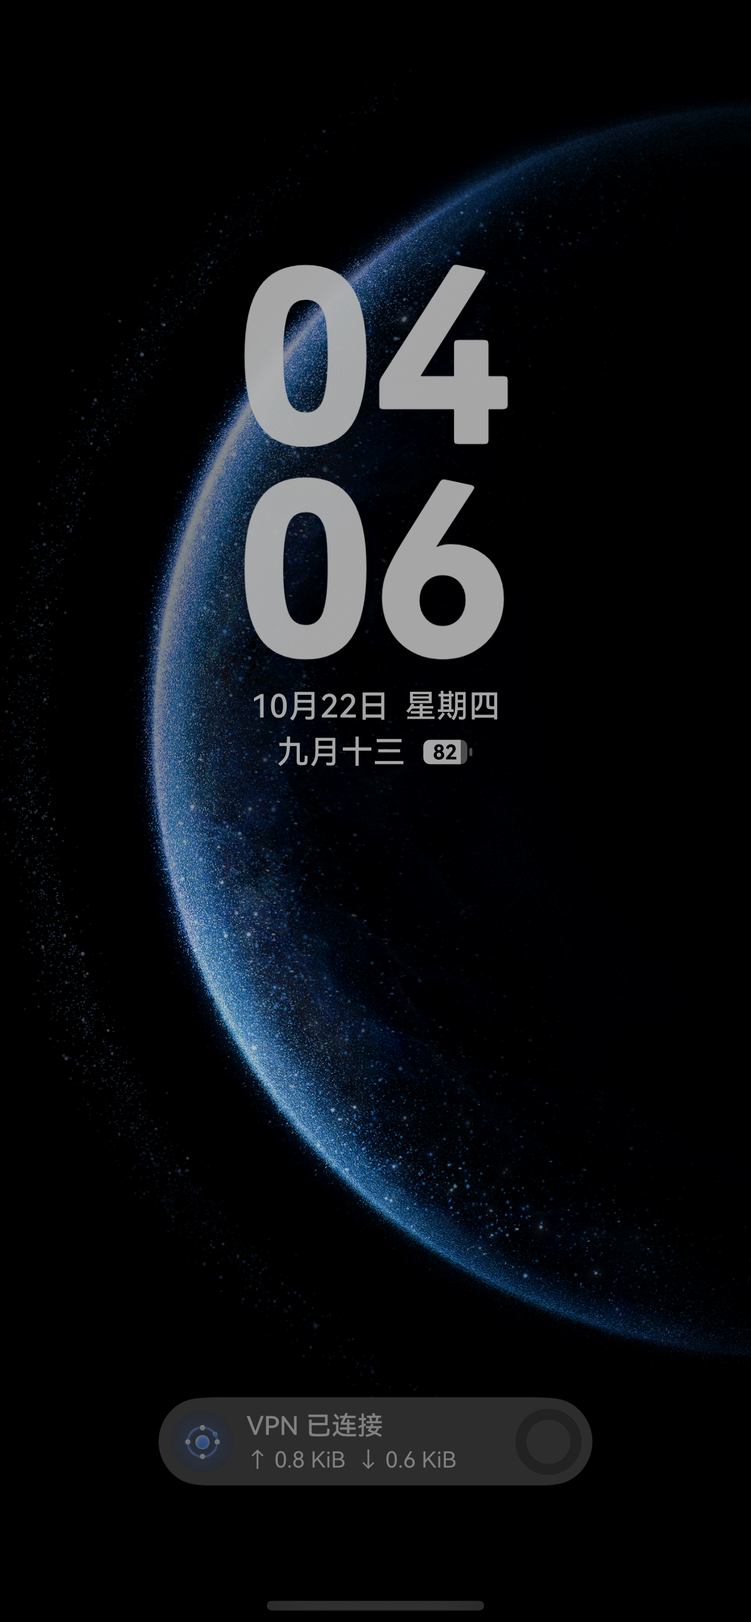
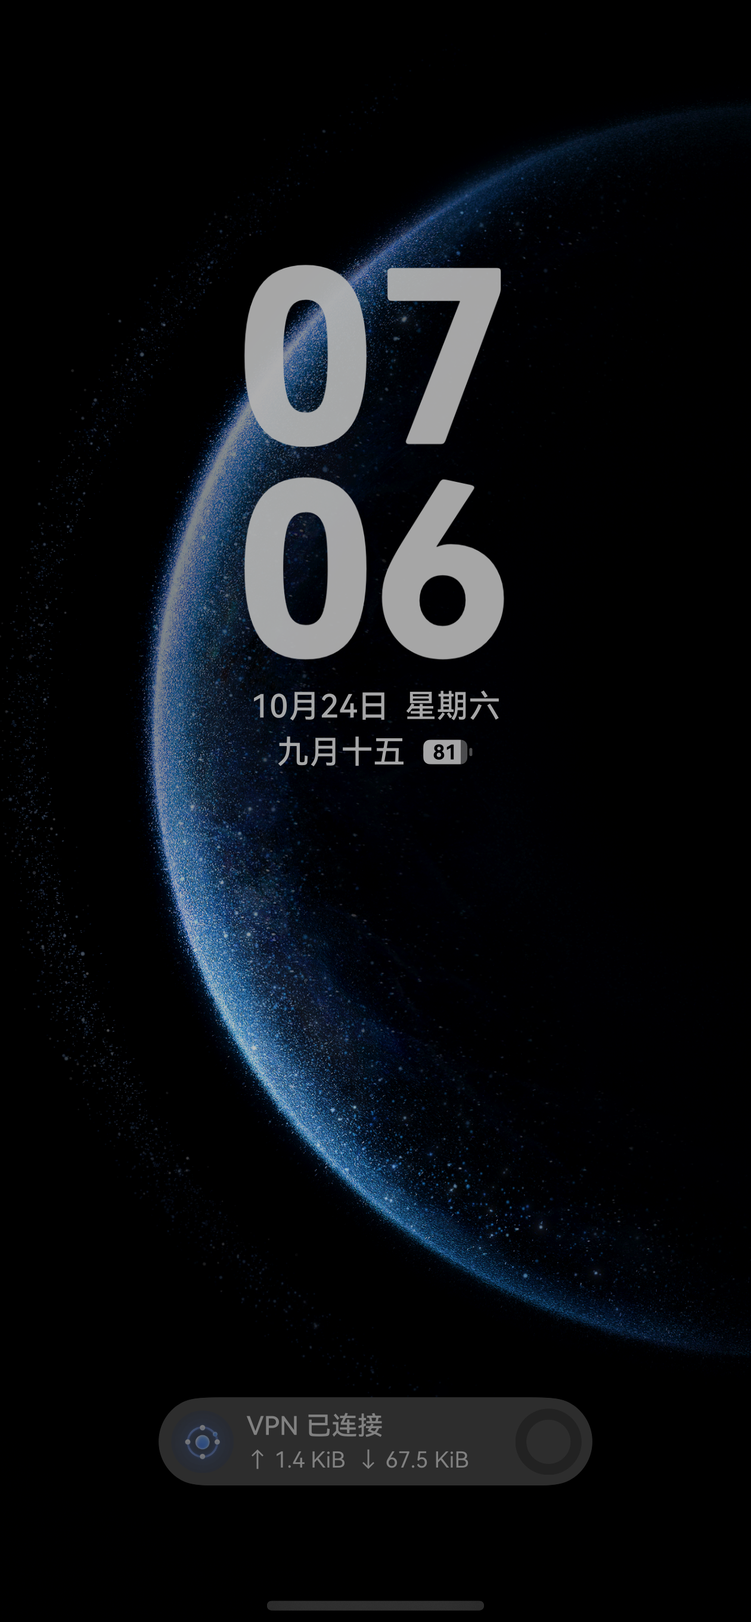
test(e2e): record the twelve-hour screen-off survival run
The run started at 22:05:37 on 2026-10-23 and ended at 10:06:49 on
2026-10-24. All three cases pass.

  heartbeats  27054
  span        43223 s
  max gap     7.0 s
  extension   created 1, destroyed 0

The merged report replaces the 720 s case with this run. O-3 and
O-CONN-06 are closed. The verdict stays incomplete: the four review
layers still lack human decisions, three device cases still skip, the
strong high-level finding is open, and the requirements layer has no
requirements model.

diff --git a/docs/changes/vpn-endurance/checks/e2e/index.html b/docs/changes/vpn-endurance/checks/e2e/index.html
@@ -230,7 +230,7 @@ AppMod finish</pre></li><li class="step" id="step-INSTALL-RESTART-S3"><div class
     &quot;phase&quot;: &quot;heartbeat_expired&quot;,
     &quot;code&quot;: 0
   }
-]</pre></li></ol></article><article class="case skip" id="case-NET-RECOVERY" data-case-card data-status="skip" data-oracles="O-NET-04 O-CONN-09 O-RECONN-11"><div class="case-head"><div><span class="case-id">用例 <code>NET-RECOVERY</code></span><h3>断网后恢复网络自动重连</h3></div><span class="badge skip">跳过</span></div><div class="case-meta"><span class="chip">O-NET-04</span><span class="chip">O-CONN-09</span><span class="chip">O-RECONN-11</span><span class="muted">步骤 2</span></div><ol class="steps"><li class="step" id="step-NET-RECOVERY-S1"><div class="step-head"><span class="step-id"><code>S1</code></span><span class="badge skip">跳过</span></div><p class="step-name">断开网络</p><dl><dt>操作</dt><dd>hdc shell svc wifi disable 并等待 ping 失败</dd><dt>期望</dt><dd><ul class="expected"><li>命令成功</li><li>设备不再能访问 1.1.1.1</li></ul></dd><dt>实际</dt><dd>`svc wifi disable` 执行了但设备仍在线（可能还有蜂窝通道），无法造出断网。</dd></dl><h4>运行输出</h4><pre class="output">`svc wifi disable` 执行了但设备仍在线（可能还有蜂窝通道），无法造出断网。</pre></li><li class="step" id="step-NET-RECOVERY-S2"><div class="step-head"><span class="step-id"><code>S2</code></span><span class="badge skip">跳过</span></div><p class="step-name">跳过原因</p><dl><dt>操作</dt><dd>检查前置条件</dd><dt>期望</dt><dd><ul class="expected"><li>前置条件满足</li></ul></dd><dt>实际</dt><dd>`svc wifi disable` 执行了但设备仍在线（可能还有蜂窝通道），无法造出断网。</dd></dl><h4>运行输出</h4><pre class="output">`svc wifi disable` 执行了但设备仍在线（可能还有蜂窝通道），无法造出断网。</pre></li></ol></article><article class="case pass" id="case-SURV-CONNECT" data-case-card data-status="pass" data-oracles="O-CONN-06"><div class="case-head"><div><span class="case-id">用例 <code>SURV-CONNECT</code></span><h3>锁屏存活：先连上隧道</h3></div><span class="badge pass">通过</span></div><div class="case-meta"><span class="chip">O-CONN-06</span><span class="muted">步骤 2</span></div><ol class="steps"><li class="step" id="step-SURV-CONNECT-S1"><div class="step-head"><span class="step-id"><code>S1</code></span><span class="badge pass">通过</span></div><p class="step-name">冷启动应用</p><dl><dt>操作</dt><dd>aa force-stop 后 aa start</dd><dt>期望</dt><dd><ul class="expected"><li>设备日志出现 ui_opened</li><li>界面显示未连接或已连接</li></ul></dd><dt>实际</dt><dd>应用冷启动完成，界面显示连接状态</dd></dl><div class="shots single"><figure><a href="shots/SURV-CONNECT__S1__1.png"><img src="shots/SURV-CONNECT__S1__1.png" alt="操作后" loading="lazy"></a><figcaption>操作后 · e2e-run/shots/01-survival-launch.png</figcaption></figure></div></li><li class="step" id="step-SURV-CONNECT-S2"><div class="step-head"><span class="step-id"><code>S2</code></span><span class="badge pass">通过</span></div><p class="step-name">建立隧道</p><dl><dt>操作</dt><dd>界面处于未连接时点击连接按钮</dd><dt>期望</dt><dd><ul class="expected"><li>设备日志出现 vpn_connected</li></ul></dd><dt>实际</dt><dd>应用已处于已连接状态</dd></dl><div class="shots single"><figure><a href="shots/SURV-CONNECT__S2__1.png"><img src="shots/SURV-CONNECT__S2__1.png" alt="结果" loading="lazy"></a><figcaption>结果 · e2e-run/shots/02-survival-connected.png</figcaption></figure></div></li></ol></article><article class="case pass" id="case-SURV-SCREEN-OFF" data-case-card data-status="pass" data-oracles="O-CONN-06"><div class="case-head"><div><span class="case-id">用例 <code>SURV-SCREEN-OFF</code></span><h3>锁屏 720 秒静置期间心跳不断</h3></div><span class="badge pass">通过</span></div><div class="case-meta"><span class="chip">O-CONN-06</span><span class="muted">步骤 2</span></div><ol class="steps"><li class="step" id="step-SURV-SCREEN-OFF-S1"><div class="step-head"><span class="step-id"><code>S1</code></span><span class="badge pass">通过</span></div><p class="step-name">锁屏静置</p><dl><dt>操作</dt><dd>power-shell suspend 后等待 720 秒并唤醒</dd><dt>期望</dt><dd><ul class="expected"><li>设备进入锁屏</li><li>到点后唤醒成功</li></ul></dd><dt>实际</dt><dd>锁屏 720 秒后唤醒</dd></dl><div class="shots"><figure><a href="shots/SURV-SCREEN-OFF__S1__1.png"><img src="shots/SURV-SCREEN-OFF__S1__1.png" alt="操作前" loading="lazy"></a><figcaption>操作前 · e2e-run/shots/03-survival-before-suspend.png</figcaption></figure><figure><a href="shots/SURV-SCREEN-OFF__S1__2.png"><img src="shots/SURV-SCREEN-OFF__S1__2.png" alt="操作后" loading="lazy"></a><figcaption>操作后 · e2e-run/shots/04-survival-after-wakeup.png</figcaption></figure></div></li><li class="step" id="step-SURV-SCREEN-OFF-S2"><div class="step-head"><span class="step-id"><code>S2</code></span><span class="badge pass">通过</span></div><p class="step-name">校验心跳</p><dl><dt>操作</dt><dd>统计锁屏期间扩展写入的心跳</dd><dt>期望</dt><dd><ul class="expected"><li>心跳数量达到下限</li><li>心跳跨度达到 720 秒</li><li>最大间隔不超过 15 秒</li></ul></dd><dt>实际</dt><dd>心跳 225 个，跨度 742 s，最大间隔 6.9 s</dd></dl><h4>运行输出</h4><pre class="output">心跳 225 个，跨度 742 s，最大间隔 6.9 s</pre></li></ol></article><article class="case pass" id="case-SURV-ONE-PROCESS" data-case-card data-status="pass" data-oracles="O-CONN-06"><div class="case-head"><div><span class="case-id">用例 <code>SURV-ONE-PROCESS</code></span><h3>锁屏存活：全程只有一个扩展进程</h3></div><span class="badge pass">通过</span></div><div class="case-meta"><span class="chip">O-CONN-06</span><span class="muted">步骤 1</span></div><ol class="steps"><li class="step" id="step-SURV-ONE-PROCESS-S1"><div class="step-head"><span class="step-id"><code>S1</code></span><span class="badge pass">通过</span></div><p class="step-name">统计扩展进程</p><dl><dt>操作</dt><dd>检索设备日志中的扩展创建与销毁事件</dd><dt>期望</dt><dd><ul class="expected"><li>vpn_extension_created 出现 1 次</li><li>vpn_extension_destroyed 出现 0 次</li></ul></dd><dt>实际</dt><dd>vpn_extension_created 1 次，vpn_extension_destroyed 0 次</dd></dl><h4>运行输出</h4><pre class="output">vpn_extension_created 1 次，vpn_extension_destroyed 0 次</pre></li></ol></article></div>
+]</pre></li></ol></article><article class="case skip" id="case-NET-RECOVERY" data-case-card data-status="skip" data-oracles="O-NET-04 O-CONN-09 O-RECONN-11"><div class="case-head"><div><span class="case-id">用例 <code>NET-RECOVERY</code></span><h3>断网后恢复网络自动重连</h3></div><span class="badge skip">跳过</span></div><div class="case-meta"><span class="chip">O-NET-04</span><span class="chip">O-CONN-09</span><span class="chip">O-RECONN-11</span><span class="muted">步骤 2</span></div><ol class="steps"><li class="step" id="step-NET-RECOVERY-S1"><div class="step-head"><span class="step-id"><code>S1</code></span><span class="badge skip">跳过</span></div><p class="step-name">断开网络</p><dl><dt>操作</dt><dd>hdc shell svc wifi disable 并等待 ping 失败</dd><dt>期望</dt><dd><ul class="expected"><li>命令成功</li><li>设备不再能访问 1.1.1.1</li></ul></dd><dt>实际</dt><dd>`svc wifi disable` 执行了但设备仍在线（可能还有蜂窝通道），无法造出断网。</dd></dl><h4>运行输出</h4><pre class="output">`svc wifi disable` 执行了但设备仍在线（可能还有蜂窝通道），无法造出断网。</pre></li><li class="step" id="step-NET-RECOVERY-S2"><div class="step-head"><span class="step-id"><code>S2</code></span><span class="badge skip">跳过</span></div><p class="step-name">跳过原因</p><dl><dt>操作</dt><dd>检查前置条件</dd><dt>期望</dt><dd><ul class="expected"><li>前置条件满足</li></ul></dd><dt>实际</dt><dd>`svc wifi disable` 执行了但设备仍在线（可能还有蜂窝通道），无法造出断网。</dd></dl><h4>运行输出</h4><pre class="output">`svc wifi disable` 执行了但设备仍在线（可能还有蜂窝通道），无法造出断网。</pre></li></ol></article><article class="case pass" id="case-SURV-CONNECT" data-case-card data-status="pass" data-oracles="O-CONN-06"><div class="case-head"><div><span class="case-id">用例 <code>SURV-CONNECT</code></span><h3>锁屏存活：先连上隧道</h3></div><span class="badge pass">通过</span></div><div class="case-meta"><span class="chip">O-CONN-06</span><span class="muted">步骤 2</span></div><ol class="steps"><li class="step" id="step-SURV-CONNECT-S1"><div class="step-head"><span class="step-id"><code>S1</code></span><span class="badge pass">通过</span></div><p class="step-name">冷启动应用</p><dl><dt>操作</dt><dd>aa force-stop 后 aa start</dd><dt>期望</dt><dd><ul class="expected"><li>设备日志出现 ui_opened</li><li>界面显示未连接或已连接</li></ul></dd><dt>实际</dt><dd>应用冷启动完成，界面显示连接状态</dd></dl><div class="shots single"><figure><a href="shots/SURV-CONNECT__S1__1.png"><img src="shots/SURV-CONNECT__S1__1.png" alt="操作后" loading="lazy"></a><figcaption>操作后 · e2e-run/shots/01-survival-launch.png</figcaption></figure></div></li><li class="step" id="step-SURV-CONNECT-S2"><div class="step-head"><span class="step-id"><code>S2</code></span><span class="badge pass">通过</span></div><p class="step-name">建立隧道</p><dl><dt>操作</dt><dd>界面处于未连接时点击连接按钮</dd><dt>期望</dt><dd><ul class="expected"><li>设备日志出现 vpn_connected</li></ul></dd><dt>实际</dt><dd>应用已处于已连接状态</dd></dl><div class="shots single"><figure><a href="shots/SURV-CONNECT__S2__1.png"><img src="shots/SURV-CONNECT__S2__1.png" alt="结果" loading="lazy"></a><figcaption>结果 · e2e-run/shots/02-survival-connected.png</figcaption></figure></div></li></ol></article><article class="case pass" id="case-SURV-SCREEN-OFF" data-case-card data-status="pass" data-oracles="O-CONN-06"><div class="case-head"><div><span class="case-id">用例 <code>SURV-SCREEN-OFF</code></span><h3>锁屏 43200 秒静置期间心跳不断</h3></div><span class="badge pass">通过</span></div><div class="case-meta"><span class="chip">O-CONN-06</span><span class="muted">步骤 2</span></div><ol class="steps"><li class="step" id="step-SURV-SCREEN-OFF-S1"><div class="step-head"><span class="step-id"><code>S1</code></span><span class="badge pass">通过</span></div><p class="step-name">锁屏静置</p><dl><dt>操作</dt><dd>power-shell suspend 后等待 43200 秒并唤醒</dd><dt>期望</dt><dd><ul class="expected"><li>设备进入锁屏</li><li>到点后唤醒成功</li></ul></dd><dt>实际</dt><dd>锁屏 43200 秒后唤醒</dd></dl><div class="shots"><figure><a href="shots/SURV-SCREEN-OFF__S1__1.png"><img src="shots/SURV-SCREEN-OFF__S1__1.png" alt="操作前" loading="lazy"></a><figcaption>操作前 · e2e-run/shots/03-survival-before-suspend.png</figcaption></figure><figure><a href="shots/SURV-SCREEN-OFF__S1__2.png"><img src="shots/SURV-SCREEN-OFF__S1__2.png" alt="操作后" loading="lazy"></a><figcaption>操作后 · e2e-run/shots/04-survival-after-wakeup.png</figcaption></figure></div></li><li class="step" id="step-SURV-SCREEN-OFF-S2"><div class="step-head"><span class="step-id"><code>S2</code></span><span class="badge pass">通过</span></div><p class="step-name">校验心跳</p><dl><dt>操作</dt><dd>统计锁屏期间扩展写入的心跳</dd><dt>期望</dt><dd><ul class="expected"><li>心跳数量达到下限</li><li>心跳跨度达到 43200 秒</li><li>最大间隔不超过 15 秒</li></ul></dd><dt>实际</dt><dd>心跳 27054 个，跨度 43223 s，最大间隔 7.0 s</dd></dl><h4>运行输出</h4><pre class="output">心跳 27054 个，跨度 43223 s，最大间隔 7.0 s</pre></li></ol></article><article class="case pass" id="case-SURV-ONE-PROCESS" data-case-card data-status="pass" data-oracles="O-CONN-06"><div class="case-head"><div><span class="case-id">用例 <code>SURV-ONE-PROCESS</code></span><h3>锁屏存活：全程只有一个扩展进程</h3></div><span class="badge pass">通过</span></div><div class="case-meta"><span class="chip">O-CONN-06</span><span class="muted">步骤 1</span></div><ol class="steps"><li class="step" id="step-SURV-ONE-PROCESS-S1"><div class="step-head"><span class="step-id"><code>S1</code></span><span class="badge pass">通过</span></div><p class="step-name">统计扩展进程</p><dl><dt>操作</dt><dd>检索设备日志中的扩展创建与销毁事件</dd><dt>期望</dt><dd><ul class="expected"><li>vpn_extension_created 出现 1 次</li><li>vpn_extension_destroyed 出现 0 次</li></ul></dd><dt>实际</dt><dd>vpn_extension_created 1 次，vpn_extension_destroyed 0 次</dd></dl><h4>运行输出</h4><pre class="output">vpn_extension_created 1 次，vpn_extension_destroyed 0 次</pre></li></ol></article></div>
 </section>
 
 <section>
@@ -247,13 +247,13 @@ AppMod finish</pre></li><li class="step" id="step-INSTALL-RESTART-S3"><div class
 <table>
 <caption>本次报告引用的全部证据</caption>
 <thead><tr><th>用例 / 步骤</th><th>类型</th><th>标签</th><th>报告内路径</th><th>大小</th><th>SHA-256 前缀</th></tr></thead>
-<tbody><tr data-evidence-type="screenshot"><td><code>BG-CONNECT</code> / <code>S1</code></td><td>截图</td><td>操作后</td><td><code>shots/BG-CONNECT__S1__1.png</code></td><td>309.8 KB</td><td><code>f2e5a9089e90</code></td></tr><tr data-evidence-type="screenshot"><td><code>BG-CONNECT</code> / <code>S2</code></td><td>截图</td><td>结果</td><td><code>shots/BG-CONNECT__S2__1.png</code></td><td>292.7 KB</td><td><code>6c4f747c14fa</code></td></tr><tr data-evidence-type="screenshot"><td><code>BG-USER-STOP</code> / <code>S1</code></td><td>截图</td><td>结果</td><td><code>shots/BG-USER-STOP__S1__1.png</code></td><td>309.4 KB</td><td><code>946b6255efb6</code></td></tr><tr data-evidence-type="output"><td><code>BG-USER-STOP</code> / <code>S2</code></td><td>文本输出</td><td>log</td><td>—</td><td>65 字符</td><td><code>1cf32a3f7ba4</code></td></tr><tr data-evidence-type="output"><td><code>ENDURANCE-RECOVERY</code> / <code>S1</code></td><td>文本输出</td><td>log</td><td>—</td><td>72 字符</td><td><code>6dfcfb376da3</code></td></tr><tr data-evidence-type="output"><td><code>ENDURANCE-RECOVERY</code> / <code>S2</code></td><td>文本输出</td><td>log</td><td>—</td><td>34 字符</td><td><code>e6ac9b828f1e</code></td></tr><tr data-evidence-type="screenshot"><td><code>ENDURANCE-RECOVERY</code> / <code>S3</code></td><td>截图</td><td>操作后</td><td><code>shots/ENDURANCE-RECOVERY__S3__1.png</code></td><td>454.1 KB</td><td><code>8bd6ef68433e</code></td></tr><tr data-evidence-type="screenshot"><td><code>ENDURANCE-RECOVERY</code> / <code>S3</code></td><td>截图</td><td>结果</td><td><code>shots/ENDURANCE-RECOVERY__S3__2.png</code></td><td>454.1 KB</td><td><code>8bd6ef68433e</code></td></tr><tr data-evidence-type="output"><td><code>ENDURANCE-RECOVERY</code> / <code>S4</code></td><td>文本输出</td><td>log</td><td>—</td><td>396 字符</td><td><code>3e0cc764a0f8</code></td></tr><tr data-evidence-type="output"><td><code>INSTALL-RESTART</code> / <code>S1</code></td><td>文本输出</td><td>log</td><td>—</td><td>534 字符</td><td><code>4c161141f126</code></td></tr><tr data-evidence-type="output"><td><code>INSTALL-RESTART</code> / <code>S2</code></td><td>文本输出</td><td>log</td><td>—</td><td>155 字符</td><td><code>26c715b6c7e7</code></td></tr><tr data-evidence-type="screenshot"><td><code>INSTALL-RESTART</code> / <code>S3</code></td><td>截图</td><td>操作后</td><td><code>shots/INSTALL-RESTART__S3__1.png</code></td><td>312.5 KB</td><td><code>475c1a461247</code></td></tr><tr data-evidence-type="screenshot"><td><code>INSTALL-RESTART</code> / <code>S4</code></td><td>截图</td><td>结果</td><td><code>shots/INSTALL-RESTART__S4__1.png</code></td><td>212.0 KB</td><td><code>526479b55da1</code></td></tr><tr data-evidence-type="output"><td><code>INSTALL-RESTART</code> / <code>S5</code></td><td>文本输出</td><td>log</td><td>—</td><td>204 字符</td><td><code>5fe4fbd46f02</code></td></tr><tr data-evidence-type="screenshot"><td><code>SURV-CONNECT</code> / <code>S1</code></td><td>截图</td><td>操作后</td><td><code>shots/SURV-CONNECT__S1__1.png</code></td><td>211.7 KB</td><td><code>20a3947efca0</code></td></tr><tr data-evidence-type="screenshot"><td><code>SURV-CONNECT</code> / <code>S2</code></td><td>截图</td><td>结果</td><td><code>shots/SURV-CONNECT__S2__1.png</code></td><td>291.8 KB</td><td><code>8fdcb2a48ea3</code></td></tr><tr data-evidence-type="screenshot"><td><code>SURV-SCREEN-OFF</code> / <code>S1</code></td><td>截图</td><td>操作前</td><td><code>shots/SURV-SCREEN-OFF__S1__1.png</code></td><td>291.3 KB</td><td><code>50e1858db767</code></td></tr><tr data-evidence-type="screenshot"><td><code>SURV-SCREEN-OFF</code> / <code>S1</code></td><td>截图</td><td>操作后</td><td><code>shots/SURV-SCREEN-OFF__S1__2.png</code></td><td>2538.0 KB</td><td><code>57083c226675</code></td></tr><tr data-evidence-type="output"><td><code>SURV-SCREEN-OFF</code> / <code>S2</code></td><td>文本输出</td><td>log</td><td>—</td><td>28 字符</td><td><code>8545c86c2ee0</code></td></tr><tr data-evidence-type="output"><td><code>SURV-ONE-PROCESS</code> / <code>S1</code></td><td>文本输出</td><td>log</td><td>—</td><td>53 字符</td><td><code>73ffe8dfe648</code></td></tr></tbody>
+<tbody><tr data-evidence-type="screenshot"><td><code>BG-CONNECT</code> / <code>S1</code></td><td>截图</td><td>操作后</td><td><code>shots/BG-CONNECT__S1__1.png</code></td><td>309.8 KB</td><td><code>f2e5a9089e90</code></td></tr><tr data-evidence-type="screenshot"><td><code>BG-CONNECT</code> / <code>S2</code></td><td>截图</td><td>结果</td><td><code>shots/BG-CONNECT__S2__1.png</code></td><td>292.7 KB</td><td><code>6c4f747c14fa</code></td></tr><tr data-evidence-type="screenshot"><td><code>BG-USER-STOP</code> / <code>S1</code></td><td>截图</td><td>结果</td><td><code>shots/BG-USER-STOP__S1__1.png</code></td><td>309.4 KB</td><td><code>946b6255efb6</code></td></tr><tr data-evidence-type="output"><td><code>BG-USER-STOP</code> / <code>S2</code></td><td>文本输出</td><td>log</td><td>—</td><td>65 字符</td><td><code>1cf32a3f7ba4</code></td></tr><tr data-evidence-type="output"><td><code>ENDURANCE-RECOVERY</code> / <code>S1</code></td><td>文本输出</td><td>log</td><td>—</td><td>72 字符</td><td><code>6dfcfb376da3</code></td></tr><tr data-evidence-type="output"><td><code>ENDURANCE-RECOVERY</code> / <code>S2</code></td><td>文本输出</td><td>log</td><td>—</td><td>34 字符</td><td><code>e6ac9b828f1e</code></td></tr><tr data-evidence-type="screenshot"><td><code>ENDURANCE-RECOVERY</code> / <code>S3</code></td><td>截图</td><td>操作后</td><td><code>shots/ENDURANCE-RECOVERY__S3__1.png</code></td><td>454.1 KB</td><td><code>8bd6ef68433e</code></td></tr><tr data-evidence-type="screenshot"><td><code>ENDURANCE-RECOVERY</code> / <code>S3</code></td><td>截图</td><td>结果</td><td><code>shots/ENDURANCE-RECOVERY__S3__2.png</code></td><td>454.1 KB</td><td><code>8bd6ef68433e</code></td></tr><tr data-evidence-type="output"><td><code>ENDURANCE-RECOVERY</code> / <code>S4</code></td><td>文本输出</td><td>log</td><td>—</td><td>396 字符</td><td><code>3e0cc764a0f8</code></td></tr><tr data-evidence-type="output"><td><code>INSTALL-RESTART</code> / <code>S1</code></td><td>文本输出</td><td>log</td><td>—</td><td>534 字符</td><td><code>4c161141f126</code></td></tr><tr data-evidence-type="output"><td><code>INSTALL-RESTART</code> / <code>S2</code></td><td>文本输出</td><td>log</td><td>—</td><td>155 字符</td><td><code>26c715b6c7e7</code></td></tr><tr data-evidence-type="screenshot"><td><code>INSTALL-RESTART</code> / <code>S3</code></td><td>截图</td><td>操作后</td><td><code>shots/INSTALL-RESTART__S3__1.png</code></td><td>312.5 KB</td><td><code>475c1a461247</code></td></tr><tr data-evidence-type="screenshot"><td><code>INSTALL-RESTART</code> / <code>S4</code></td><td>截图</td><td>结果</td><td><code>shots/INSTALL-RESTART__S4__1.png</code></td><td>212.0 KB</td><td><code>526479b55da1</code></td></tr><tr data-evidence-type="output"><td><code>INSTALL-RESTART</code> / <code>S5</code></td><td>文本输出</td><td>log</td><td>—</td><td>204 字符</td><td><code>5fe4fbd46f02</code></td></tr><tr data-evidence-type="screenshot"><td><code>SURV-CONNECT</code> / <code>S1</code></td><td>截图</td><td>操作后</td><td><code>shots/SURV-CONNECT__S1__1.png</code></td><td>310.0 KB</td><td><code>c1b333bb2498</code></td></tr><tr data-evidence-type="screenshot"><td><code>SURV-CONNECT</code> / <code>S2</code></td><td>截图</td><td>结果</td><td><code>shots/SURV-CONNECT__S2__1.png</code></td><td>292.5 KB</td><td><code>948a27f309fa</code></td></tr><tr data-evidence-type="screenshot"><td><code>SURV-SCREEN-OFF</code> / <code>S1</code></td><td>截图</td><td>操作前</td><td><code>shots/SURV-SCREEN-OFF__S1__1.png</code></td><td>292.4 KB</td><td><code>3f64ca7fb2c8</code></td></tr><tr data-evidence-type="screenshot"><td><code>SURV-SCREEN-OFF</code> / <code>S1</code></td><td>截图</td><td>操作后</td><td><code>shots/SURV-SCREEN-OFF__S1__2.png</code></td><td>2539.9 KB</td><td><code>fd0879f8c126</code></td></tr><tr data-evidence-type="output"><td><code>SURV-SCREEN-OFF</code> / <code>S2</code></td><td>文本输出</td><td>log</td><td>—</td><td>32 字符</td><td><code>08ec537ac58d</code></td></tr><tr data-evidence-type="output"><td><code>SURV-ONE-PROCESS</code> / <code>S1</code></td><td>文本输出</td><td>log</td><td>—</td><td>53 字符</td><td><code>73ffe8dfe648</code></td></tr></tbody>
 </table>
 </div>
 </section>
 
 <footer>
-生成时间 2026-10-22T19:09:28+11:00 · 报告结构版本 1 · 由 <code>a01</code> 的 <code>scripts/e2e-report.py</code> 生成。<br>
+生成时间 2026-10-24T10:12:44+11:00 · 报告结构版本 1 · 由 <code>a01</code> 的 <code>scripts/e2e-report.py</code> 生成。<br>
 此页只投影运行日志。此页不执行测试，不自动判定开发完成。发布链接见 <code>e2e-published.txt</code>。
 </footer>
 </main>

diff --git a/docs/changes/vpn-endurance/completion.md b/docs/changes/vpn-endurance/completion.md
@@ -9,6 +9,7 @@
 
 **未达到开发完成。** 两个用户报告的问题已修复。宿主侧 172 条用例全部通过。
 28 个文件的设备批次退出码 0，全部文件无失败。结构化报告 10 条用例通过 7，跳过 3，失败 0。
+12 小时锁屏存活已经取得：心跳 27054 个，跨度 43223 秒，最大间隔 7.0 秒。
 跳过不算通过。下列条件仍不满足，批次不得作为下一批次的已完成基线。
 
 ## 条件逐条核对
@@ -20,11 +21,11 @@
 | 集成与单元全绿 | 满足 | 172/172 通过，见 `checks/tests.txt` |
 | E2E 全绿 | 不满足 | 报告通过 7 条，跳过 3 条，失败 0。跳过原因见 O-2 |
 | E2E 报告与发布链接 | 满足 | 见 `checks/e2e-published.txt`，HTTP 200 |
-| 报告基线等于最终代码 | 满足 | 报告为 HAP 35934430，基线 `d681465` |
+| 报告基线等于最终代码 | 满足 | 报告为 HAP 35934430，基线 `7b816f7`。12 小时用例在 `d85888c`，`entry` 与 `7b816f7` 相同 |
 | UI 还原核对 | 不适用 | 见 `checks/ui-restoration.json` 的结构性理由，待人工复审 |
 | 高层次复查门禁 | 不满足 | blocking，1 条强漏项未处置，见 `checks/high-level-review-gate.json` |
-| 12 小时锁屏存活 | 不满足 | 前两次尝试均不成立。第三次因主机重启未起跑。已重排 2026-10-23 22:00，见 O-3 |
-| 审核快照与判据一致 | 满足 | 四层快照在 `d681465` 重建，全量检查退出 0，见 O-4 |
+| 12 小时锁屏存活 | 满足 | 2026-10-23 22:05 至 2026-10-24 10:06。心跳 27054 个，跨度 43223 秒，最大间隔 7.0 秒，见 `checks/e2e-steps.json` |
+| 审核快照与判据一致 | 满足 | 四层快照在 `7b816f7` 重建，全量检查退出 0，见 O-4 |
 
 ## 已交付并验证的部分
 
@@ -41,6 +42,9 @@
   前台受控断开记为用户停止且不重连。
 - 28 个文件的设备批次在 `7b816f7` 上退出码 0。全部文件无失败。
   本轮修掉三个夹具缺陷：后台键名、文字编辑器判定、存活用例的连接前置。
+- 12 小时锁屏存活在 2026-10-23 22:05 至 2026-10-24 10:06 完成。
+  心跳 27054 个，跨度 43223 秒，最大间隔 7.0 秒。扩展创建 1 次、销毁 0 次。
+  3 条用例全部通过，退出码 0。22:00 第一次探测时屏幕又睡了，22:05 重试成功。
 
 ## 缺口与接收批次
 
@@ -48,10 +52,12 @@
 | --- | --- | --- | --- | --- |
 | O-1 | 四层人工审核结论 | 审查者从决策页导出 `a01-review-decisions/2` | 项目维护者 | vpn-endurance-r2 |
 | O-2 | 设备侧 3 条用例跳过 | 补主机通道：断网、后台掉线、卡片点击 | 项目维护者 | vpn-endurance-r2 |
-| O-3 | 12 小时锁屏存活 | 前两次尝试均不成立。第三次因主机 2026-10-22 21:12 重启未起跑。已改持久单元，重排 2026-10-23 22:00，设备独占窗口 22:00 至次日 10:00，另一会话已确认不占用 | 项目维护者 | vpn-endurance-r2 |
 | O-5 | 高层次复查 1 条强漏项 | P1 冻结或死亡时无人恢复；需平台恢复入口或人工接受残余风险 | 项目维护者 | vpn-endurance-r2 |
 | O-6 | 诊断状态行按值传参不刷新 | 报告状态行已改为直接读状态变量。其余约 20 处状态行未改，展开时取值正确，可见期间不刷新 | 项目维护者 | backlog-diagnostics-live-status |
 | O-7 | 需求层缺需求模型 | 审核工具要求 `a01-requirements-model/1`。模型要覆盖参与者、目标、范围、流程、规则、状态、实体、界面与视图，并由模型生成四张核心图 | 项目维护者 | backlog-requirements-model |
+
+O-3 已关闭。2026-10-23 22:05 至 2026-10-24 10:06 在 `d85888c` 完成 12 小时锁屏存活。
+心跳 27054 个，跨度 43223 秒，最大间隔 7.0 秒。扩展创建 1 次、销毁 0 次。
 
 O-4 已关闭。2026-10-22 15:36 在 `d681465` 重建四层快照。提交 `ae61dcc`。
 全量 `scripts/run-checks.sh` 退出 0，输出「审核快照与判据一致」。
@@ -59,7 +65,7 @@ O-4 已关闭。2026-10-22 15:36 在 `d681465` 重建四层快照。提交 `ae61
 ## 下一批次开工必读
 
 - `checks/high-level-review.json` 中 `severity=strong` 且 `disposition=open` 的 1 条条目。
-- 本文件上表的 O-1 到 O-6。O-4 已关闭，其余仍开放。
+- 本文件上表的 O-1、O-2、O-5、O-6、O-7。O-3 与 O-4 已关闭。
 - 设备解锁方法：指纹或锁屏密码。`power-shell`、`uitest` 与 `uinput` 都不能绕过安全锁屏。
   每条 `screen-off-survival` 结束后设备会再次锁屏。
 - 与本批次改动面相交的旧缺口：O-SEAM-11 责任空洞、LLD §1.4 的两项真机缺口。
@@ -105,8 +111,8 @@ python3 /home/red/.claude/skills/a01/scripts/e2e-publish.py \
 | --- | --- |
 | O-1 四层人工结论 | 打开 `docs/review/requirements/index.html`、`architecture/index.html`、`hld/index.html`、`lld/index.html`，逐层审查并从页面导出 `a01-review-decisions/2` 记录 |
 | O-2 三条跳过 | 补主机通道：造出无网状态、后台非主动掉线、卡片点击 |
-| O-3 12 小时存活 | 解锁并连接后运行 `SURVIVAL_MS=43200000 node --test scripts/e2e/screen-off-survival.mjs`。运行期间不要解锁、不要点通知里的停止 |
 | O-5 强漏项 | 为 P2 增加启动连接的恢复入口，或在 `checks/high-level-review.json` 中签字接受残余风险 |
+| O-7 需求模型 | 写 `a01-requirements-model/1` 模型，注入 `review-brief.json`，重生成四张核心图 |
 
 四项人工结论与强漏项接受都不能由自动检查代替。未签字时门禁保持阻塞。
 

diff --git a/docs/changes/vpn-endurance/record.md b/docs/changes/vpn-endurance/record.md
@@ -323,6 +323,20 @@ E2E 结构化运行日志（`checks/e2e-steps.json`）、报告（`checks/e2e/in
 - 处置三：新增 21:50 预检单元。唤醒、上滑、启动应用、读焦点，结果写入尝试日志。
 - 重排：2026-10-23 22:00。设备窗口已与 `namiwork-harmony` 确认，22:00 至次日 10:00。
 
+### 第三次 12 小时尝试复跑（2026-10-23 22:05 至 2026-10-24 10:06）
+
+- 结果：通过。3 条用例全部通过，退出码 0。
+- 起跑：22:00 第一次探测时屏幕又睡了。22:05 第二次探测成功，22:05:37 起跑。
+- 锁屏期：心跳 27054 个，跨度 43223 秒，最大间隔 7.0 秒。
+- 扩展：创建 1 次、销毁 0 次。没有 `user_stop`，没有 `vpn_session_end`。
+- 设备：2LQGK24828000076 / ALN-AL00 / API 26。HAP 35934430。Wi-Fi 下运行，
+  USB 连接并充电。
+- 代码基线：`d85888c`。`entry` 与 `7b816f7` 相同，`scripts` 只改了审核页输出路径。
+- 证据：`checks/e2e-steps.json` 的 `SURV-SCREEN-OFF`、
+  `/home/w2h/mesharc-e2e/e2e-steps-screen-off-12h-1792753537.json`、
+  设备日志 `screen-off-survival-2026-10-23T11-05-37-836Z.log`（36126 行）。
+- O-3 关闭。O-CONN-06 记通过。
+
 ### 旧设备最终批次（2026-10-20 23:33）
 
 - 设备：Pura X `56T0225330000021`。用户换机前完成。
@@ -430,7 +444,8 @@ E2E 结构化运行日志（`checks/e2e-steps.json`）、报告（`checks/e2e/in
 
 最终代码状态修复了两个用户报告的缺陷。按 a01 完成条件，本批次判 `incomplete`。
 原因：高层次复查门禁 blocking（1 条强项）、四层人工结论缺失、3 条设备用例跳过、
-12 小时锁屏存活未取得。审核快照已重建，28 文件批次在 `7b816f7` 上退出码 0。
+需求层缺需求模型。12 小时锁屏存活已在 2026-10-23 22:05 至 2026-10-24 10:06 取得。
+审核快照已重建，28 文件批次在 `7b816f7` 上退出码 0。
 交接见 `completion.md`。
 
 ## 改动清单
